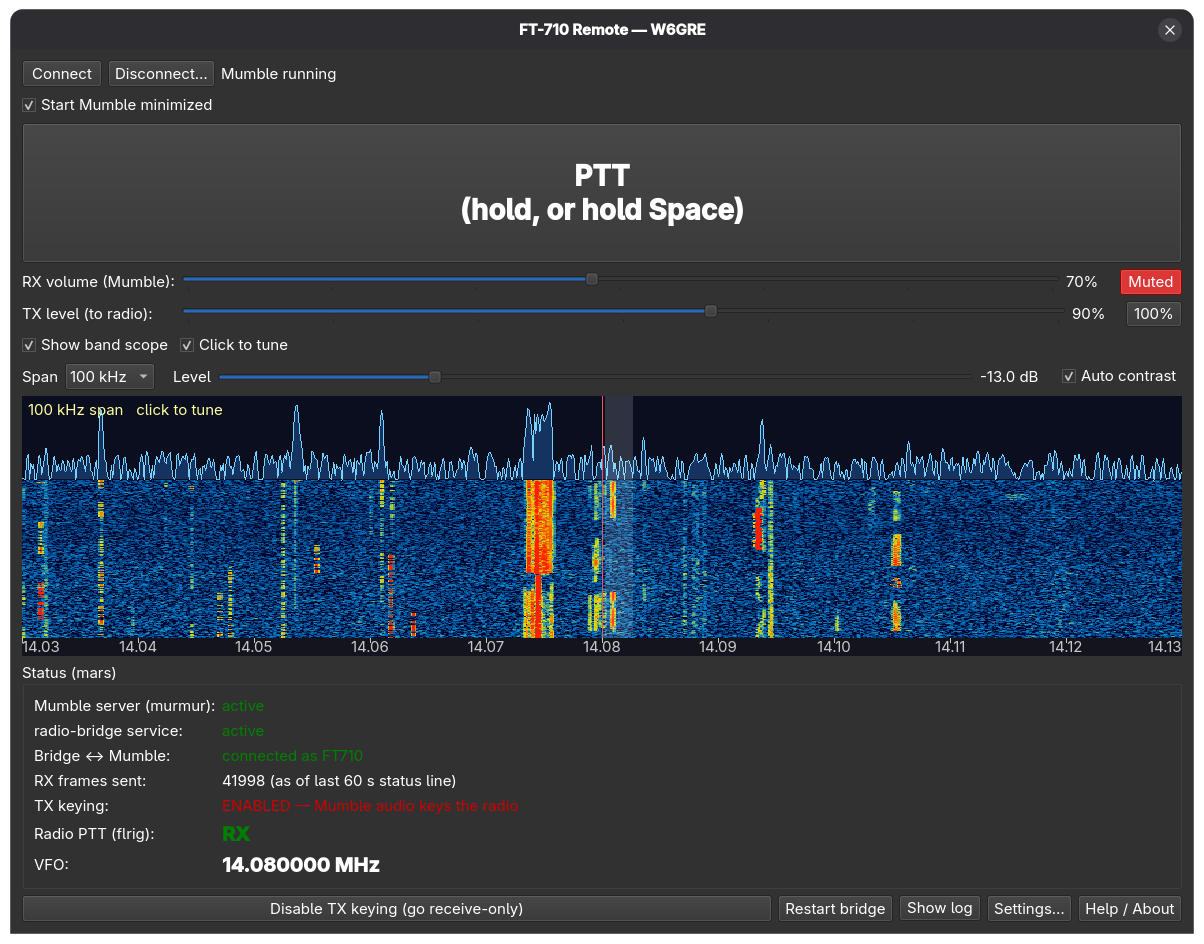
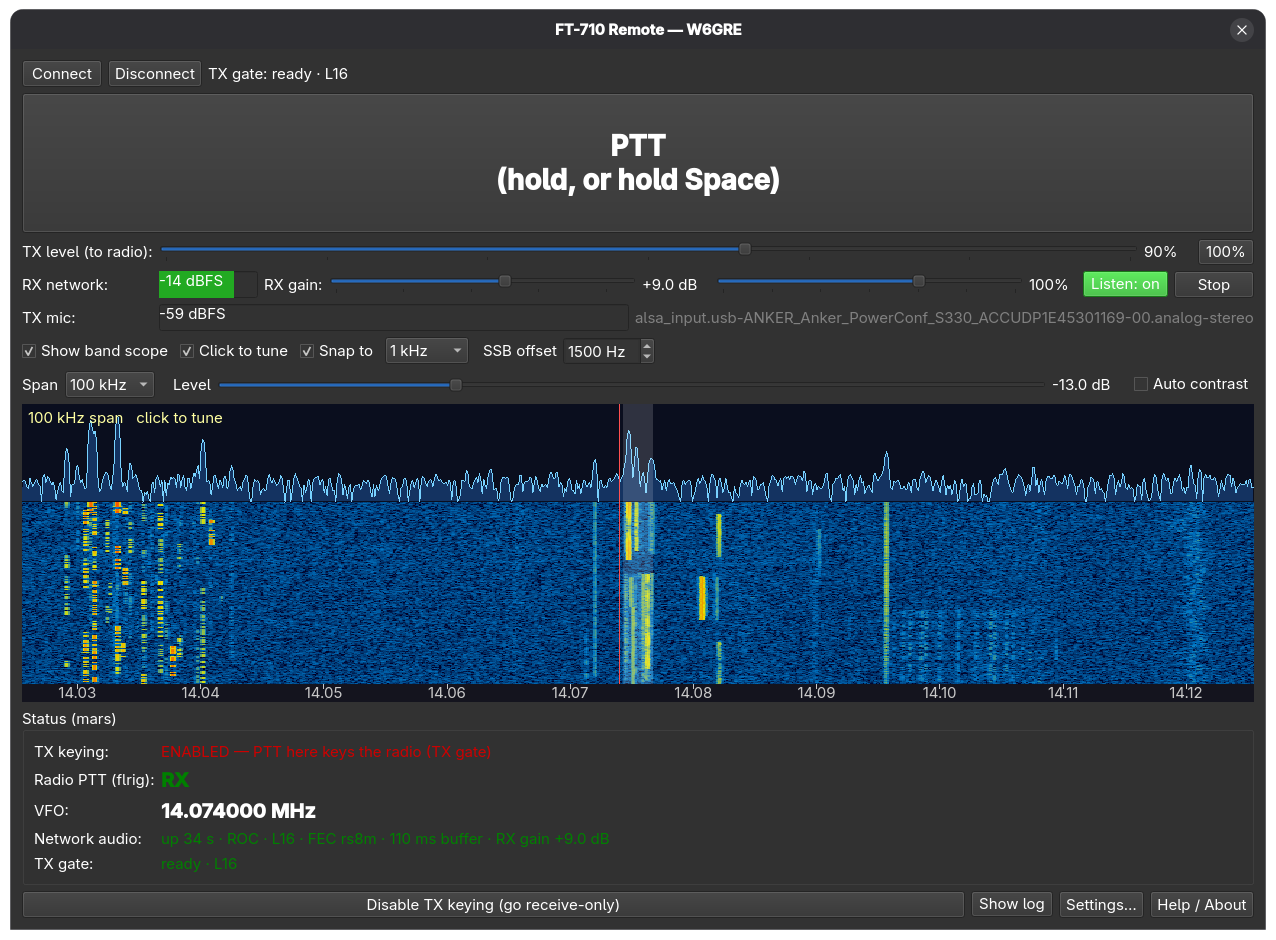
docs: new screenshot without Mumble rows
Replace docs/screenshot.png with a current capture (20 m FT8, ROC/L16
network audio, TX gate, RX gain and snap controls) and drop the
'Mumble-era screenshot' caption; update the alt text to match.

diff --git a/README.md b/README.md
@@ -17,9 +17,7 @@ It has two halves:
 > Settings from a Mumble-era install still load: the old Mumble keys are ignored and dropped
 > on the next Settings → OK, and the old "Mumble" audio mode becomes ROC.
 
-![FT-710 Remote client showing the band scope and waterfall on 20 m](docs/screenshot.png)
-
-*(Screenshot from the Mumble-era version; the scope part is unchanged.)*
+![FT-710 Remote client on 20 m FT8 (14.074 MHz): band scope and waterfall, RX gain and snap controls, network audio (ROC, L16) and TX gate status](docs/screenshot.png)
 
 ## Features
 
